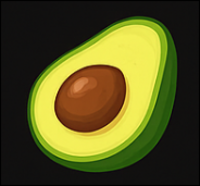
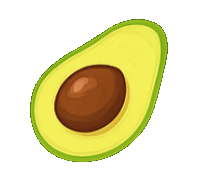
remove bg from ingredients images

diff --git a/entregable_N2/index.html b/entregable_N2/index.html
@@ -48,36 +48,36 @@
               <div class="d-flex">
                 <div class="option-card" style="width: 18rem">
                   <img
-                    src="./img/brioche.png"
+                    src="./img/ingredientes/ciabatta.png"
                     class="card-img-top border-0 rounded mb-4"
                     alt="Pan Brioche"
                   />
                   <div class="card-body">
-                    <h5 class="option-title">Brioche</h5>
+                    <h5 class="option-title">Ciabatta</h5>
                     <p class="option-prize">$1800</p>
                   </div>
                 </div>
 
                 <div class="option-card" style="width: 18rem">
                   <img
-                    src="./img/brioche.png"
+                    src="./img/ingredientes/ciabatta.png"
                     class="card-img-top border-0 rounded mb-4"
                     alt="Pan Brioche"
                   />
                   <div class="card-body">
-                    <h5 class="option-title">Brioche</h5>
+                    <h5 class="option-title">Ciabatta</h5>
                     <p class="option-prize">$1800</p>
                   </div>
                 </div>
 
                 <div class="option-card" style="width: 18rem">
                   <img
-                    src="./img/brioche.png"
+                    src="./img/ingredientes/ciabatta.png"
                     class="card-img-top border-0 rounded mb-4"
                     alt="Pan Brioche"
                   />
                   <div class="card-body">
-                    <h5 class="option-title">Brioche</h5>
+                    <h5 class="option-title">Ciabatta</h5>
                     <p class="option-prize">$1800</p>
                   </div>
                 </div>
